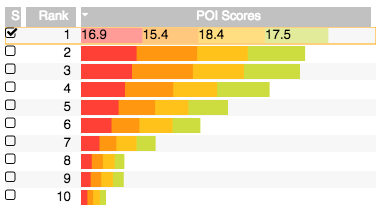
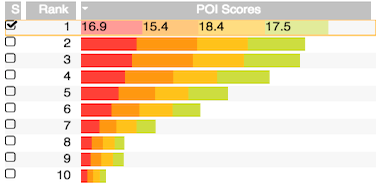
reduce figure size.

diff --git a/acmmm2017/structured_pred.tex b/acmmm2017/structured_pred.tex
@@ -15,7 +15,7 @@ From a visualisation perspective, an important advantage of the SSVM is the expl
 We use hand-crafted POI features such as the category, popularity, and average visit duration of previous tourists and also crafted transition features such as the distance and neighbourhood of two POIs to maximise the interpretability of the outcome.
 
 \begin{figure}[t!]
-\includegraphics[width=0.9\linewidth]{figure/sample_stack.png}
+\includegraphics[width=0.8\linewidth]{figure/sample_stack.png}
 \caption{Visualisation of POI scores for top ten recommended routes. Each bar from left to right represent a relative score of each POI along the route, and the total length of stacked bars represents the total score of the suggested route.}
 \label{fig:stack}
 \end{figure}

diff --git a/acmmm2017/acmmm2017.tex b/acmmm2017/acmmm2017.tex
@@ -120,7 +120,7 @@ Trajectory visualisation can potentially benefit any user of online maps by incr
 % Used in some conference proceedings e.g. sigplan and sigchi
  \begin{teaserfigure}
  \centering
-   \includegraphics[width=0.9\textwidth]{figure/sample_map.png}
+   \includegraphics[width=0.8\textwidth]{figure/sample_map.png}
    \caption{Travel route visualisation system. Given a starting POI and a number of POI to be visited, the system recommends a set of routes from a history of previous tourists.}
    \label{fig:overview}
  \end{teaserfigure}
